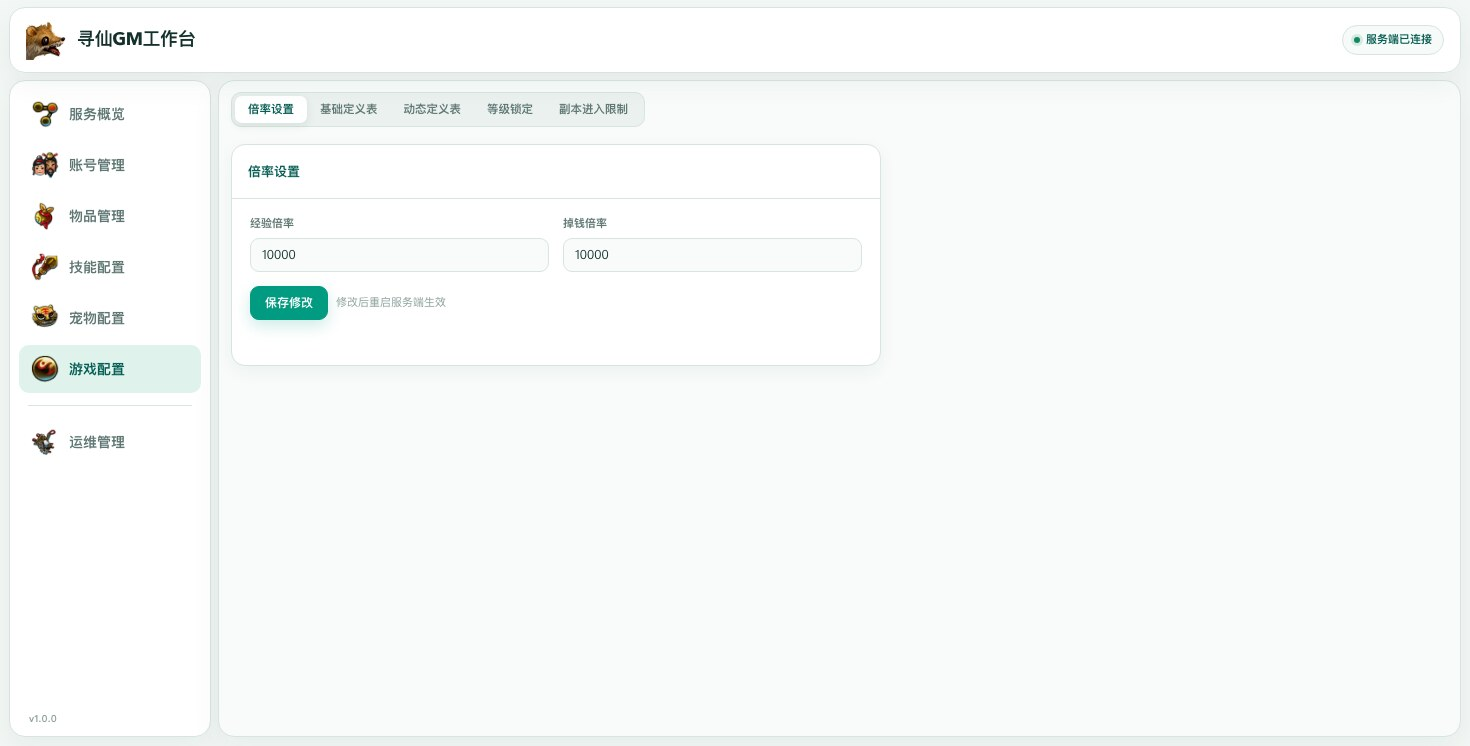
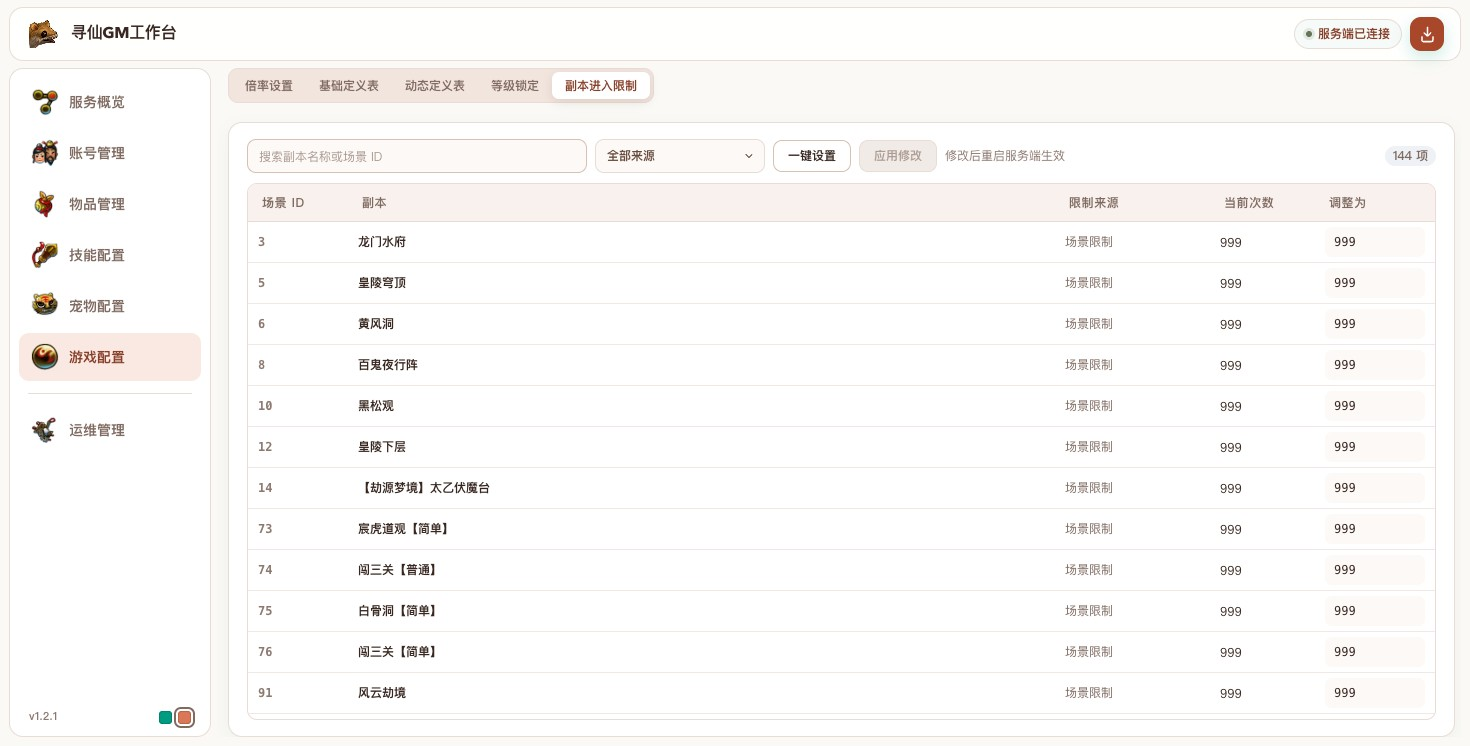
更新 README 截图为陶土橙主题
- 重新截取七个页面的截图，使用 1.2.1 版本界面和陶土橙主题
- 截图不再做模糊处理，同步更新 README 说明

diff --git a/README.md b/README.md
@@ -4,7 +4,7 @@
 
 ## 工作台截图
 
-截图在页面数据载入完成后截取；账号标识和连接用户名已模糊处理。
+截图使用陶土橙主题，在页面数据载入完成后截取。
 
 ### 服务概览
 
